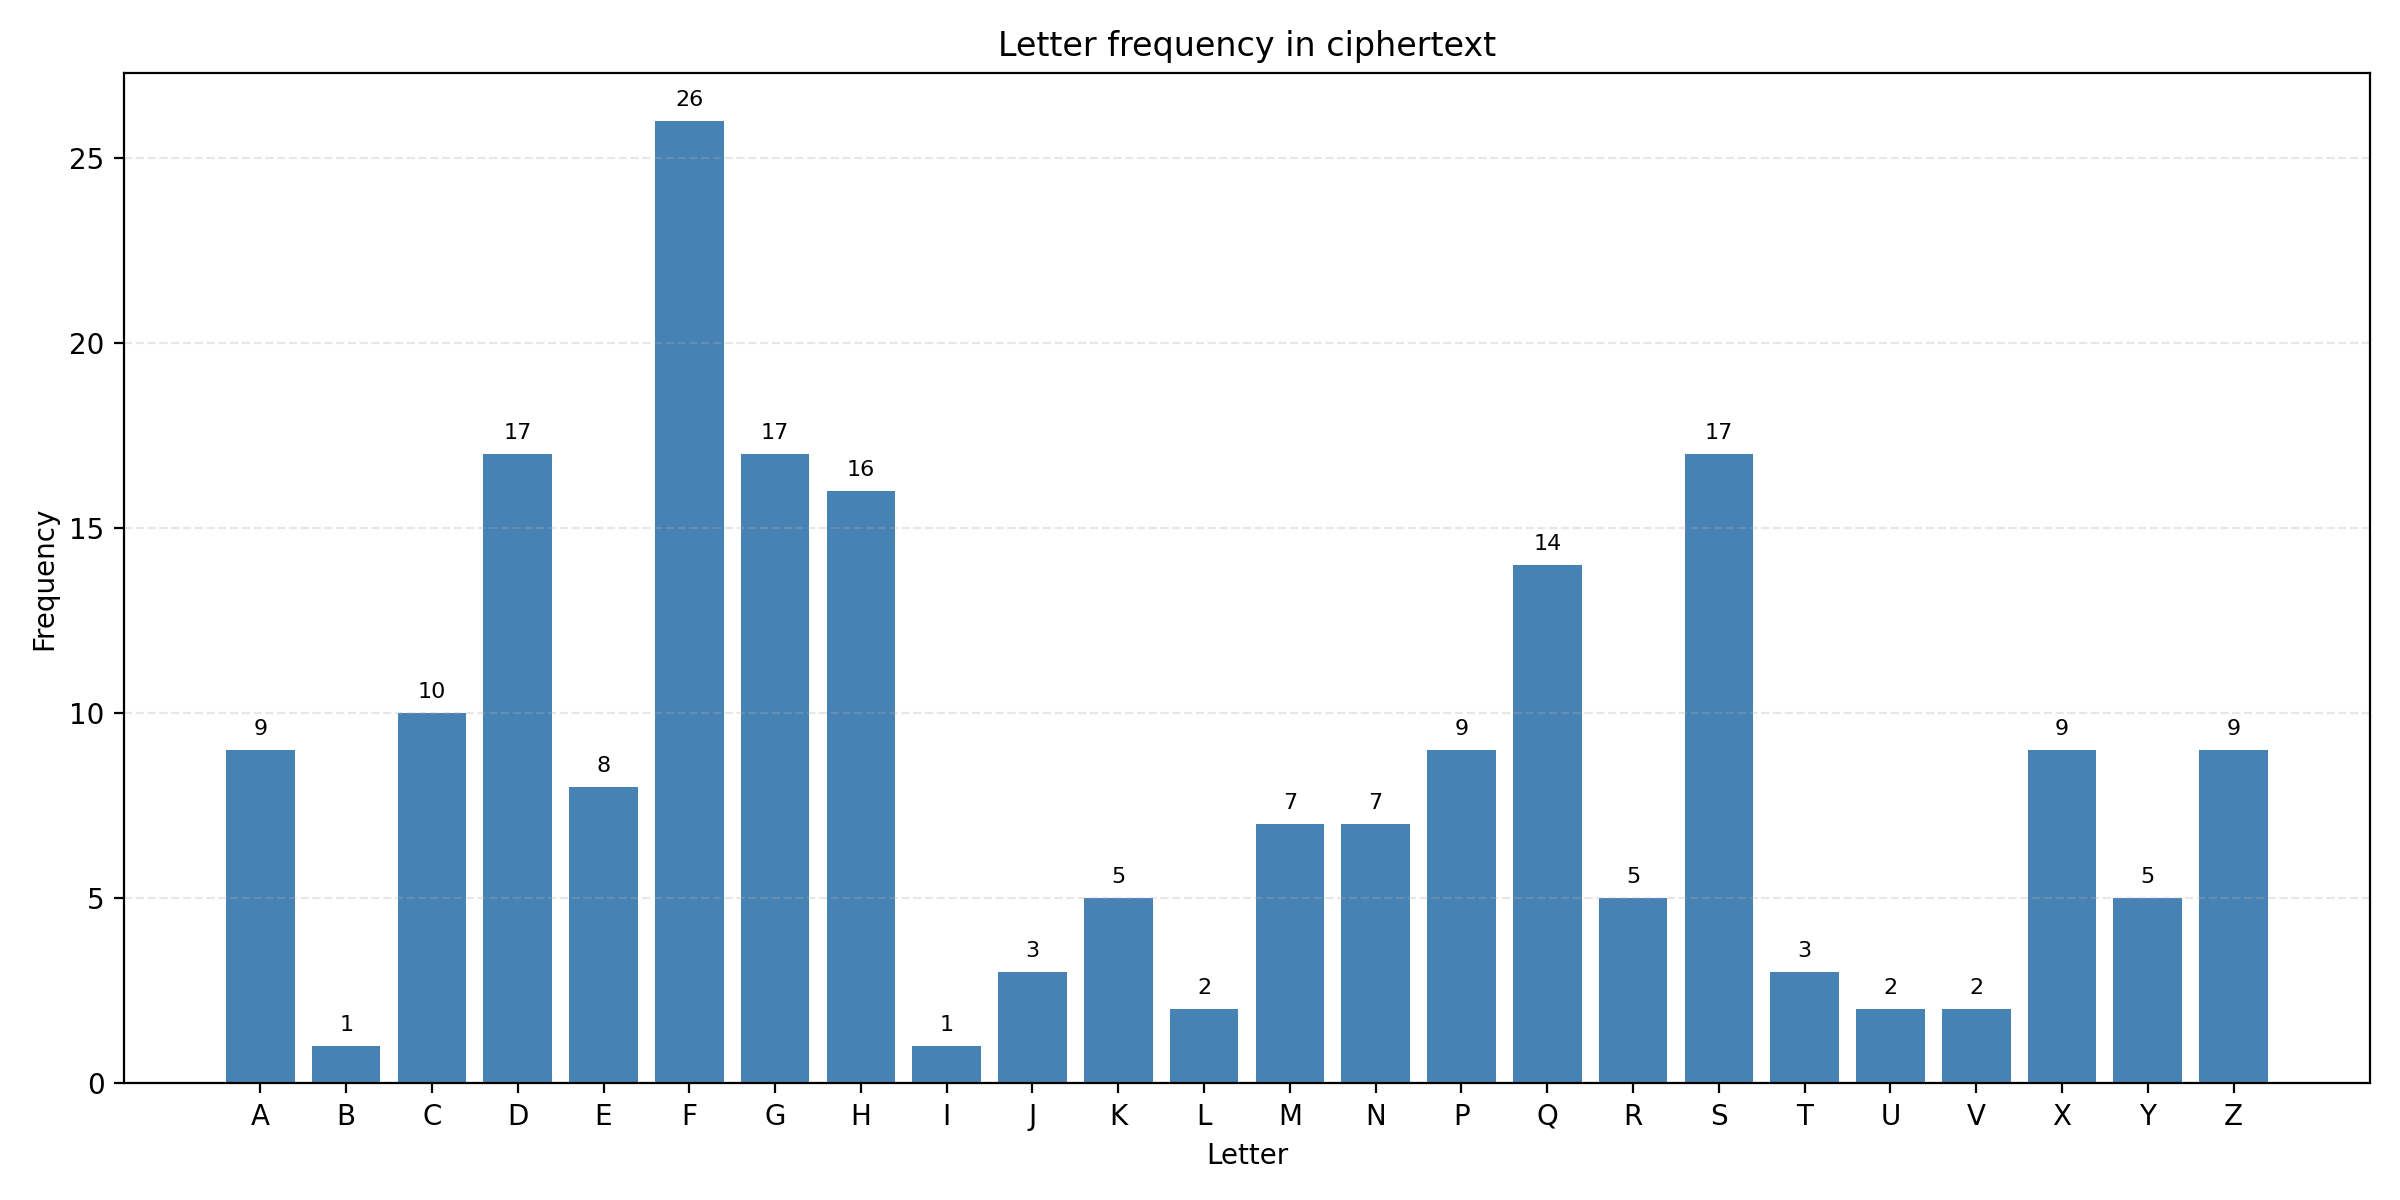
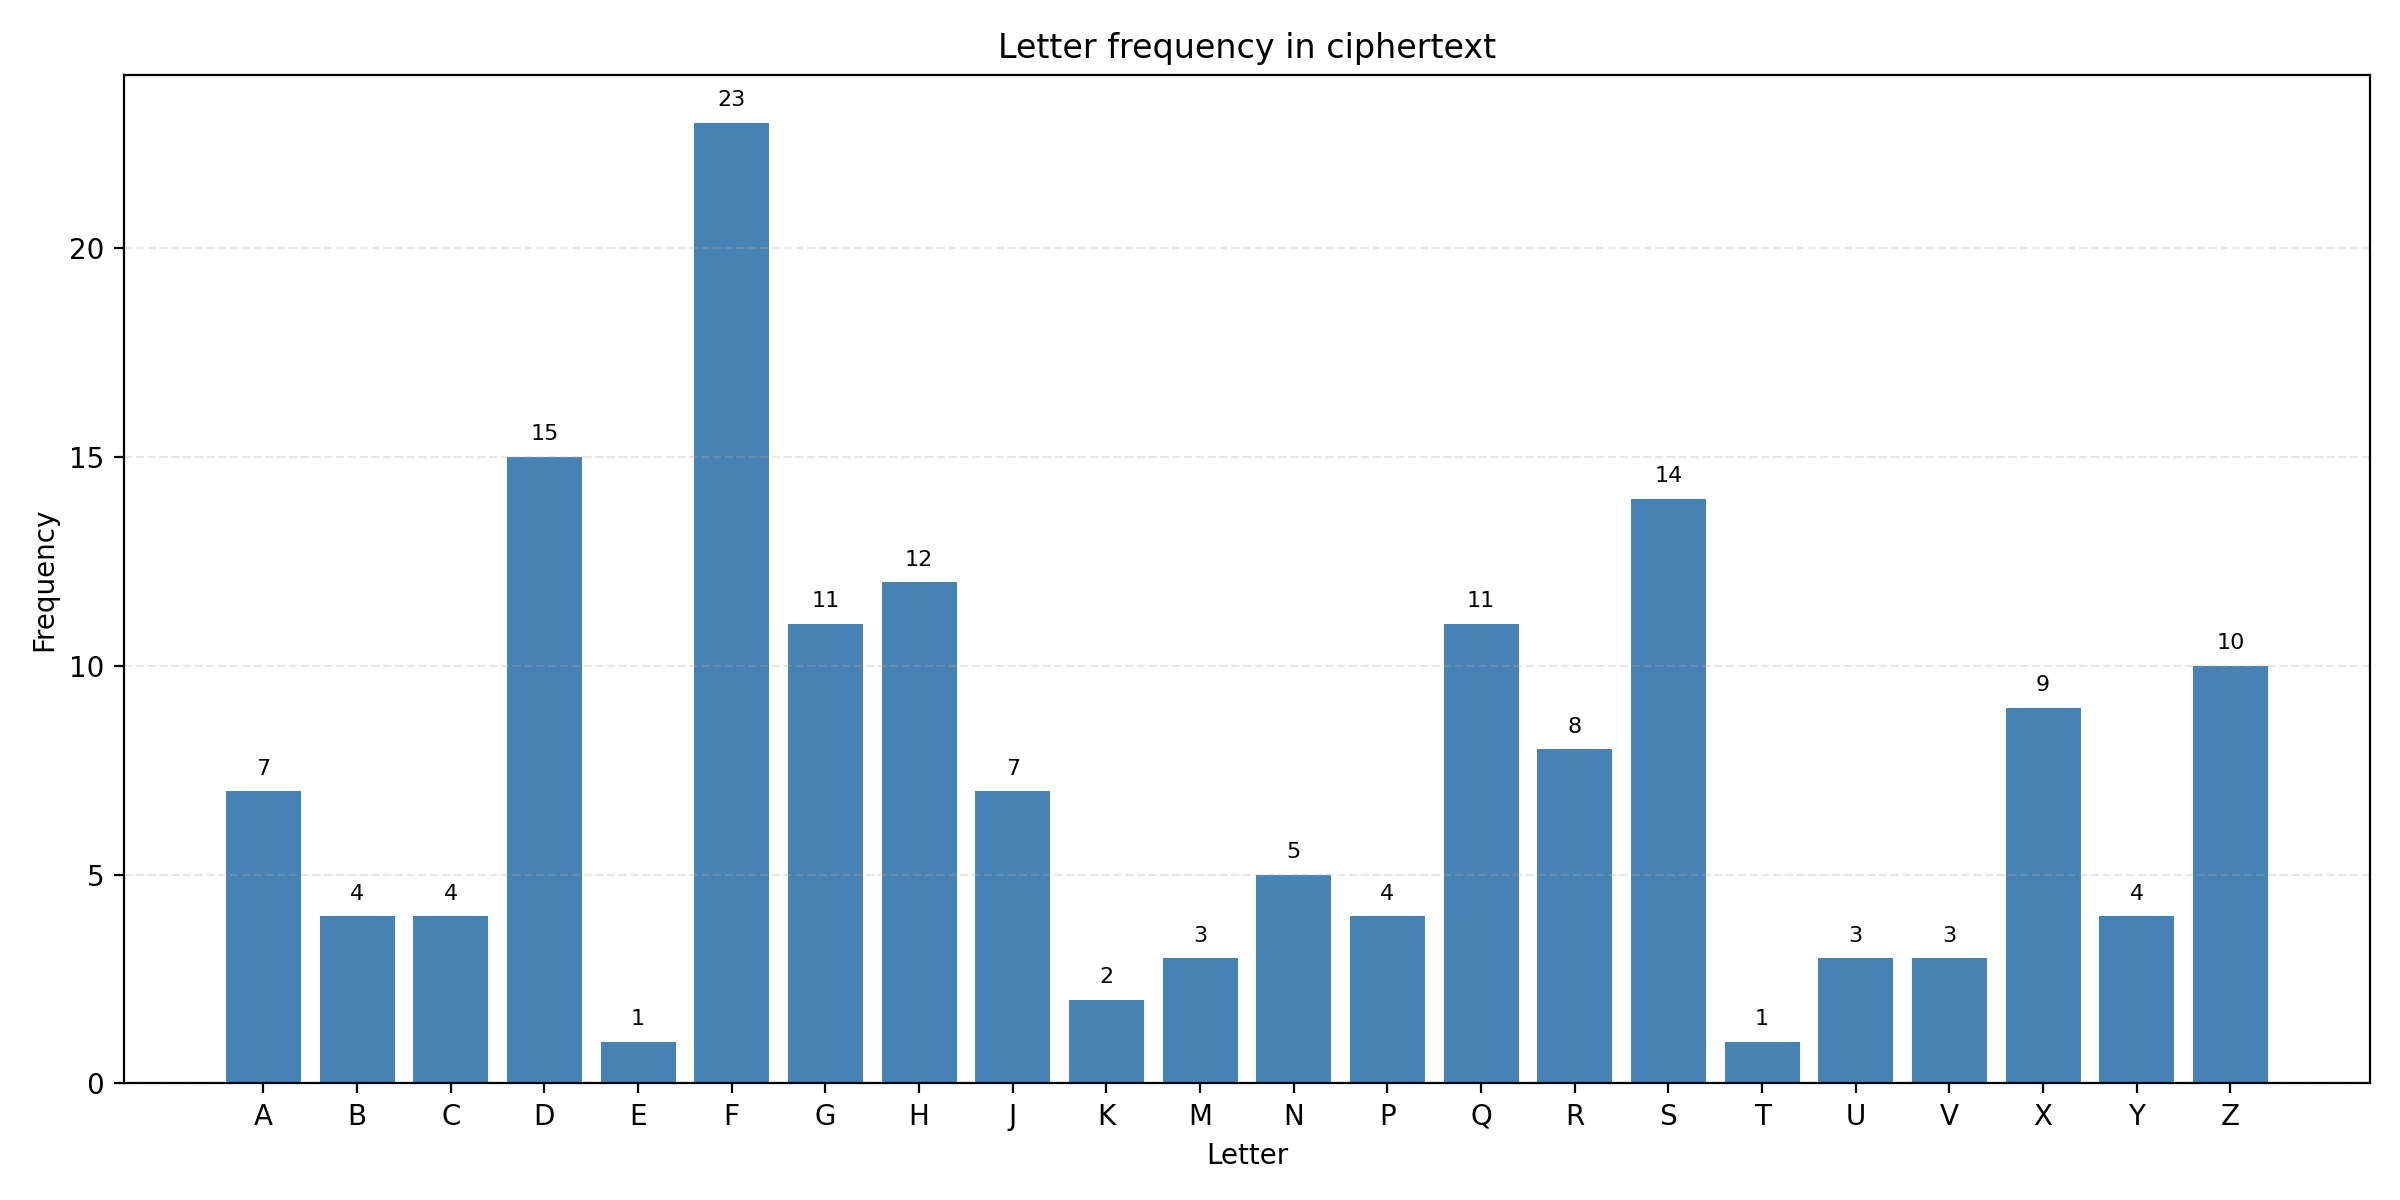
1.1

diff --git a/affine_cipher_analysis.py b/affine_cipher_analysis.py
@@ -8,6 +8,7 @@ except ModuleNotFoundError:
 
 ALPHABET = "ABCDEFGHIJKLMNOPQRSTUVWXYZ"
 
+# Tabela 2.1 — prawdopodobieństwo wystąpienia liter w angielskim
 ENGLISH_FREQ = {
     'A': 0.082, 'B': 0.015, 'C': 0.028, 'D': 0.043, 'E': 0.127, 'F': 0.022,
     'G': 0.020, 'H': 0.061, 'I': 0.070, 'J': 0.002, 'K': 0.008, 'L': 0.040,
@@ -38,6 +39,12 @@ def affine_decrypt(ciphertext: str, a: int, b: int) -> str:
 
 
 def english_score(text: str) -> float:
+    """Ocena zgodności tekstu z częstościami liter z tabeli 2.1 (nie chi^2).
+
+    Średnia prawdopodobieństw liter z ENGLISH_FREQ; wyższy wynik oznacza
+    większą zgodność z typowym tekstem angielskim. Próg w find_key (0.055)
+    to prosty heurystyczny cut-off, nie test statystyczny.
+    """
     text = clean_text(text)
     if not text:
         return 0.0
@@ -169,6 +176,18 @@ def main():
     print(f"Found key: (a, b) = ({a}, {b})")
     print(f"Plaintext: {plaintext}")
     print(f"Check: {affine_encrypt(plaintext, a, b) == ciphertext}")
+    print()
+    print(f"Rejected key pairs (count={len(invalid)}):")
+    if not invalid:
+        print("  (none — first candidate already gave readable English)")
+    else:
+        for ra, rb, reason in invalid:
+            print(f"  (a, b) = ({ra}, {rb})  -> {reason}")
+    print()
+    print(
+        "Note: plaintext quality uses english_score = mean of letter "
+        "probabilities from Table 2.1 (heuristic threshold 0.055, not chi^2)."
+    )
 
 
 if __name__ == "__main__":
